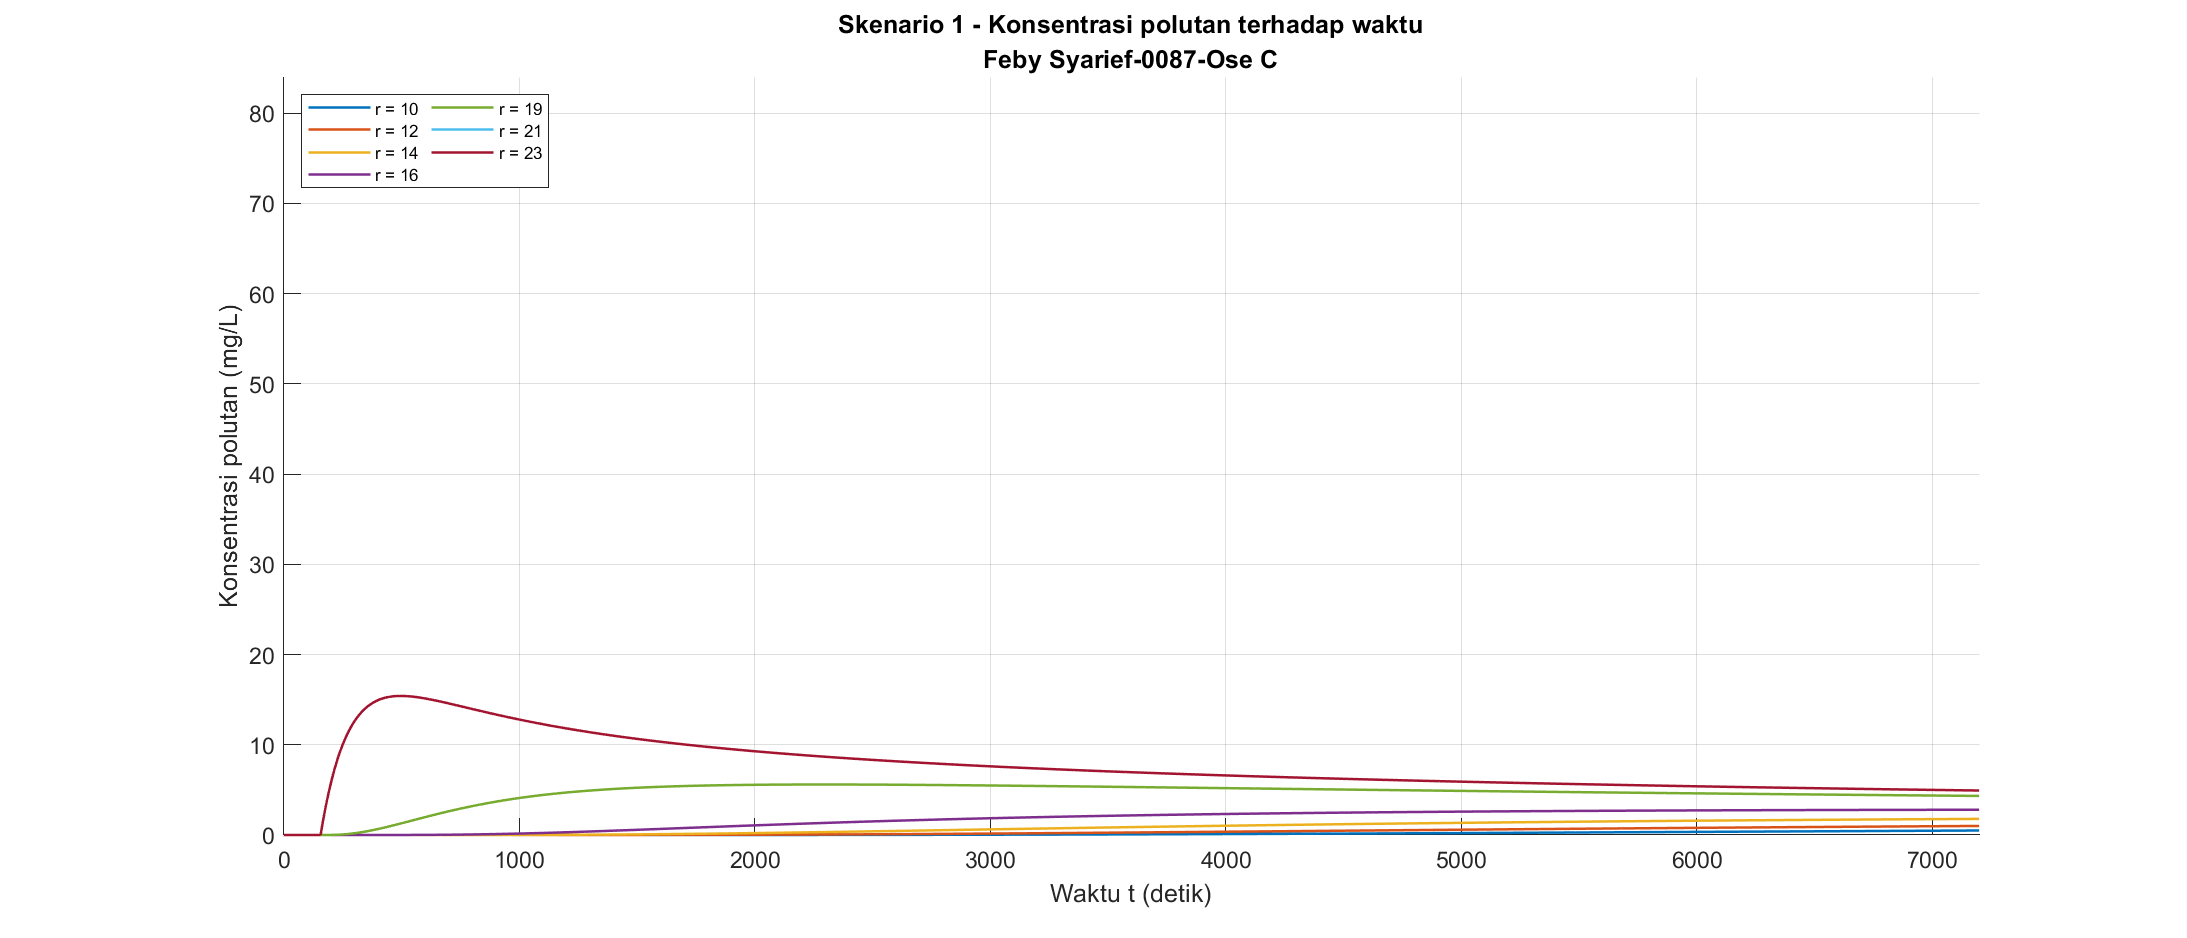
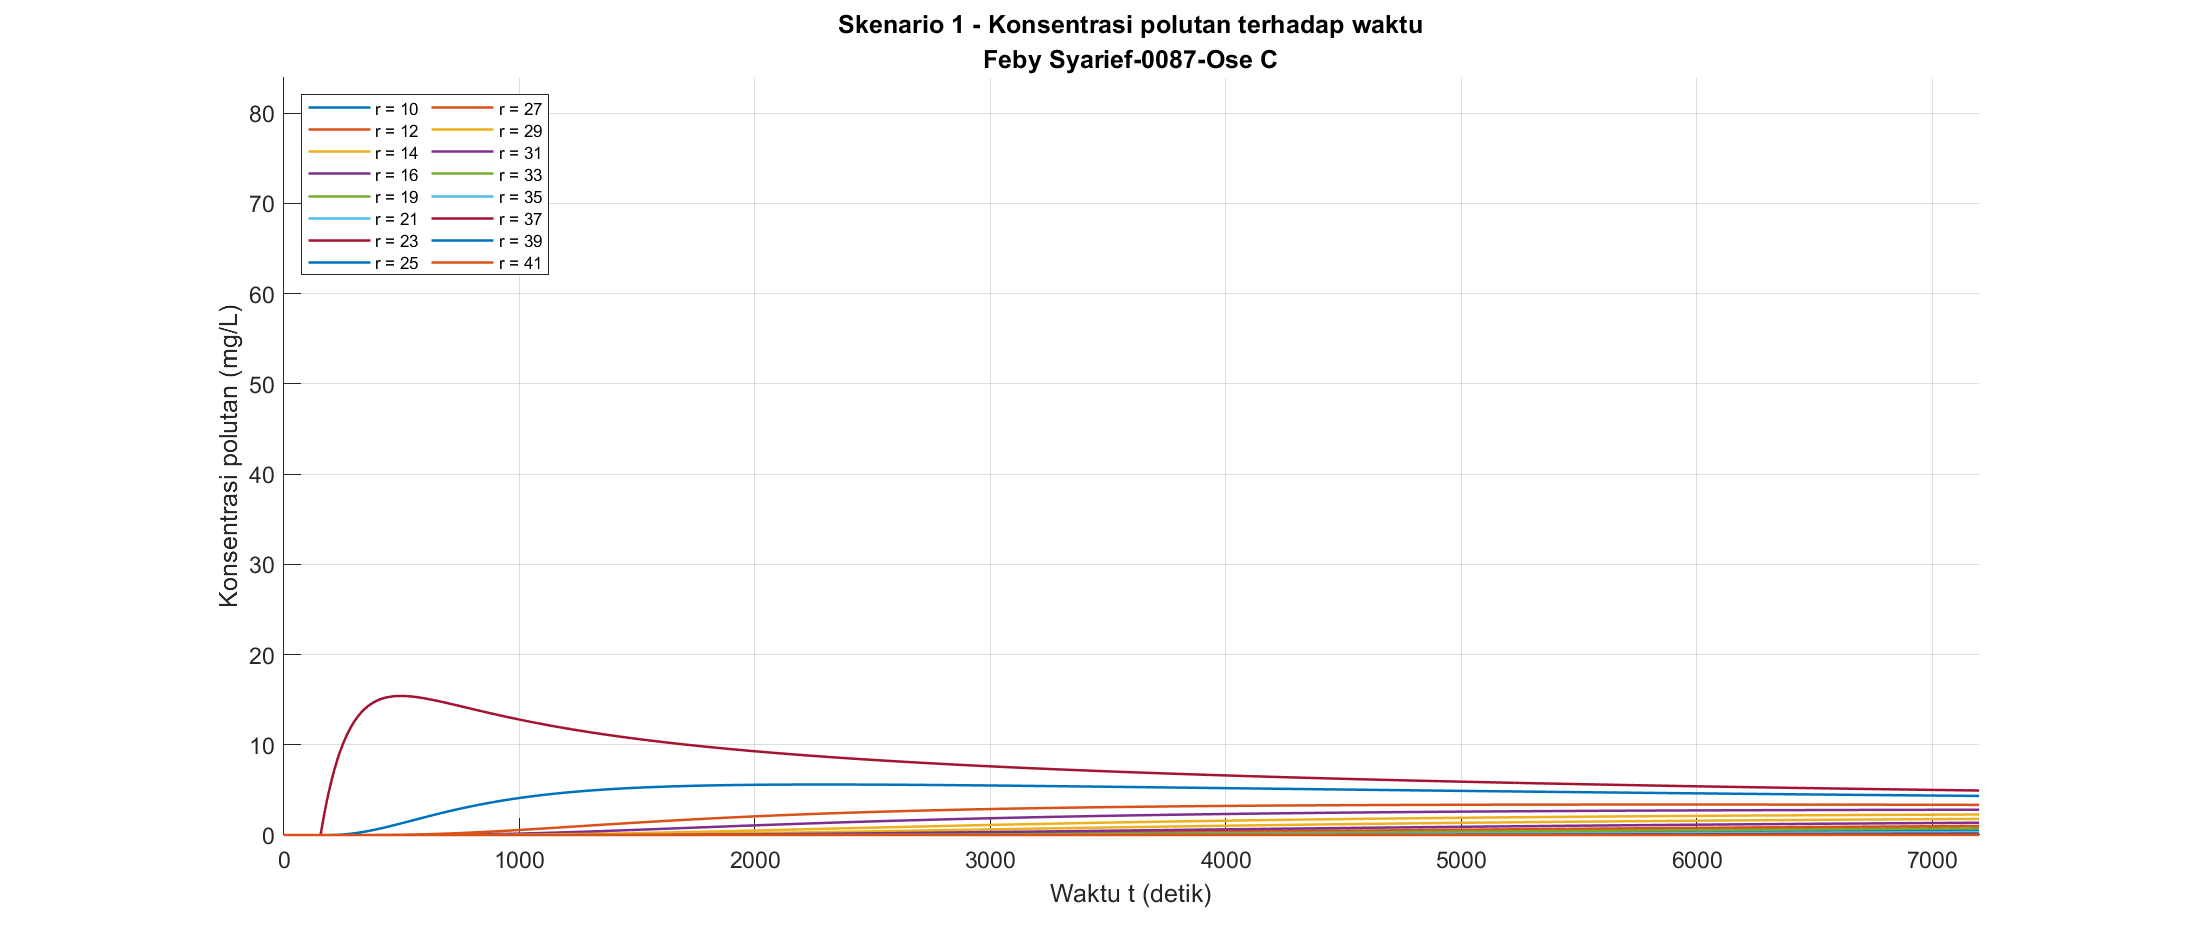
merevisi grid di modul 2 agar grafik muncul dan tidak kosong

Changed region(s): [[0.1555, 0.8348, 0.9017, 0.8966], [0.1244, 0.1546, 0.2487, 0.3092], [0.2176, 0.0928, 0.2487, 0.1237]]

diff --git a/modul_2/Crank_Nicolson_Diskontinu_terhadap_Waktu.m b/modul_2/Crank_Nicolson_Diskontinu_terhadap_Waktu.m
@@ -66,7 +66,7 @@ for s = 1:numel(scenario)
     t_step = 0:Nmax;
     t_time = t_step * dt;
 
-    rv = [1 3 5 7 9 11 13];
+    rv = [1 3 5 7 9 11 13 15 17 19 21 23 25 27 29 31 33 35 37 39 41];
     rv_valid = rv(rv >= 1 & rv <= Mmax);
 
     if length(rv_valid) < length(rv)

diff --git a/modul_2/Crank_Nicolson_Kontinu_terhadap_Waktu.m b/modul_2/Crank_Nicolson_Kontinu_terhadap_Waktu.m
@@ -65,7 +65,7 @@ for s = 1:numel(scenario)
     t_step = 0:Nmax;
     t_time = t_step * dt;
 
-    rv = [10 12 14 16 19 21 23];
+    rv = [10 12 14 16 19 21 23 24 26 28 30 32 34 36 38 40 42];
     rv_valid = rv(rv >= 1 & rv <= Mmax);
 
     if length(rv_valid) < length(rv)

diff --git a/modul_2/Crank_Nicolson_Diskontinu_terhadap_Ruang.m b/modul_2/Crank_Nicolson_Diskontinu_terhadap_Ruang.m
@@ -68,7 +68,7 @@ for s = 1:numel(scenario)
     x_grid = 0:(Mmax - 1);
     x_pos  = x_grid * dx;
 
-    tv = [5 7 9 11 13 15 17];
+    tv = [150 156 162 168 180 240 300];
     tv_valid = tv(tv >= 0 & tv <= T);
     n_plot = round(tv_valid / dt) + 1;
 

diff --git a/modul_2/FTCS_Diskontinu_terhadap_Waktu.m b/modul_2/FTCS_Diskontinu_terhadap_Waktu.m
@@ -83,7 +83,7 @@ for s = 1:numel(scenario)
 
     F = zeros(nmax, mmax);
 
-    rv = [10 12 14 16 19 21 23];
+    rv = [10 12 14 16 19 21 23 25 27 29 31 33 35 37 39 41];
     rv_valid = rv(rv >= 1 & rv <= mmax);
 
     if length(rv_valid) < length(rv)

diff --git a/modul_2/FTCS_Kontinu_terhadap_Waktu.m b/modul_2/FTCS_Kontinu_terhadap_Waktu.m
@@ -75,7 +75,7 @@ for s = 1:numel(scenario)
     F = zeros(nmax, mmax);
 
     tv = [60 180 360 500 800 1160];
-    rv = [10 12 14 16 19 21 23];
+    rv = [10 12 14 16 19 21 23 25 29 31 33 35 37 39 41];
 
     rv_valid = rv(rv >= 1 & rv <= mmax);
 
